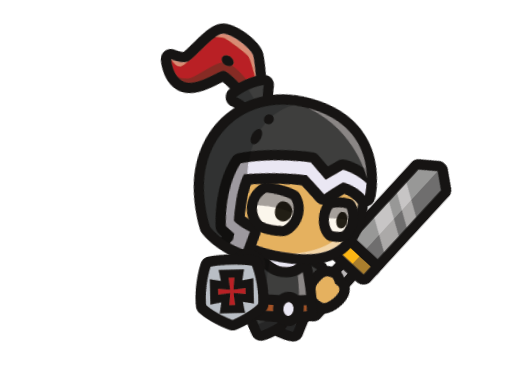
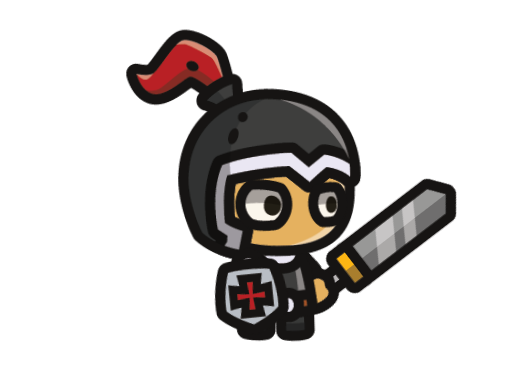
The character can be moved one step closer, and the problem button will be overridden as the scene refreshed

Changed region(s): [[0.2462, 0.0579, 0.8923, 0.8974]]

diff --git a/src/main/java/io/github/haname/view/Playpage.java b/src/main/java/io/github/haname/view/Playpage.java
@@ -12,6 +12,7 @@ import java.awt.event.ActionListener;
 import java.awt.event.KeyEvent;
 import java.awt.event.KeyListener;
 import java.awt.image.ImageObserver;
+import java.io.IOException;
 import java.util.ArrayList;
 import java.util.List;
 
@@ -25,8 +26,9 @@ public class Playpage extends JFrame implements KeyListener,Runnable {
     //使用一个布尔标志来控制暂停
     private Image offScreeenImage = null;
     private Role role = new Role();
+    private Thread thread=new Thread(this);
 
-    public Playpage() {
+    public Playpage() throws IOException {
         this.setSize(1280, 720);//设置窗口大小
         this.setLocationRelativeTo(null);//设置窗口居中
         this.setVisible(true);//设置窗口可见
@@ -75,6 +77,7 @@ public class Playpage extends JFrame implements KeyListener,Runnable {
         nowBg = allBg.get(0);
         //绘制图像
         repaint();
+        thread.start();
     }
 
     @Override
@@ -105,25 +108,25 @@ public class Playpage extends JFrame implements KeyListener,Runnable {
 
     @Override
     public void keyPressed(KeyEvent e) {
-        int keyCode = e.getKeyCode();
-        if (keyCode == KeyEvent.VK_D) {
+        int key = e.getKeyCode();
+        if (key == KeyEvent.VK_D) {
             role.rightMove();
         }
-        if (keyCode == KeyEvent.VK_A) {
+        if (key == KeyEvent.VK_A) {
             role.leftMove();
         }
-        if (keyCode == KeyEvent.VK_SPACE){
+        if (key == KeyEvent.VK_SPACE){
 
         }
     }
 
     @Override
     public void keyReleased(KeyEvent e) {
-        int keyCode = e.getKeyCode();
-        if (keyCode == KeyEvent.VK_D) {
+        int key = e.getKeyCode();
+        if (key == KeyEvent.VK_D) {
             role.rightStop();
         }
-        if (keyCode == KeyEvent.VK_A) {
+        if (key == KeyEvent.VK_A) {
             role.leftStop();
         }
     }
@@ -139,10 +142,6 @@ public class Playpage extends JFrame implements KeyListener,Runnable {
                 throw new RuntimeException(e);
             }
         }
-    }
-
-    private void print(int x) {
-        print(x);
     }
 }
 

diff --git a/src/main/java/io/github/haname/StaticValue.java b/src/main/java/io/github/haname/StaticValue.java
@@ -37,17 +37,17 @@ public class StaticValue {
     public static String path = System.getProperty("user.dir") + "/src/main/resources/images";
 
     //初始化
-    public static void init() {
+    public static void init() throws IOException {
         //加载背景图片
         try {
             bg = ImageIO.read(new File(path + "/Background.png"));
             bg2 = ImageIO.read(new File(path + "/Background2.png"));
 
-            stand_R = ImageIO.read(new File(path+"/Walking_016.png"));
+            stand_R = ImageIO.read(new File(path+"/Walking_001.png"));
 
             int width = stand_R.getWidth();
             int height = stand_R.getHeight();
-            BufferedImage stand_L = new BufferedImage(width, height, BufferedImage.TYPE_INT_ARGB);
+            stand_L = new BufferedImage(width, height, BufferedImage.TYPE_INT_ARGB);
 
             Graphics2D g2d = stand_L.createGraphics();
             g2d.drawImage(stand_R, 0, 0, width, height, width, 0, 0, height, null);
@@ -57,12 +57,22 @@ public class StaticValue {
 
             e.printStackTrace();
         }
-
+        for(int i=1;i<=18;i++) {
+            try {
+                if (i < 10) {
+                    run_R.add(ImageIO.read(new File(path + "/Walking_00" + i + ".png")));
+                } else {
+                    run_R.add(ImageIO.read(new File(path + "/Walking_0" + i + ".png")));
+                }
+            } catch (IOException e) {
+                throw new RuntimeException(e);
+            }
+        }
         //try {
         //    obstacle.add(ImageIO.read(new File(path + "")));
         //    obstacle.add(ImageIO.read(new File(path + "")));
         //} catch (IOException e) {
         //    throw new RuntimeException(e);
         //}
-    };
+    }
 }

diff --git a/src/main/java/obj/Role.java b/src/main/java/obj/Role.java
@@ -31,7 +31,7 @@ public class Role implements Runnable {
     }
 
     public void leftMove() {
-        xSpeed = -5;
+        xSpeed = -6;
         if (status.indexOf("jump") != 1) {
             status = "jump--left";
         } else {
@@ -40,7 +40,7 @@ public class Role implements Runnable {
     }
 
     public void rightMove() {
-        xSpeed = 5;
+        xSpeed = 6;
         if (status.indexOf("jump") != 1) {
             status = "jump--right";
         } else {
@@ -64,15 +64,6 @@ public class Role implements Runnable {
         } else {
             status = "stop--right";
         }
-    }
-
-
-    public int getX() {
-        return x;
-    }
-
-    public int getY() {
-        return y;
     }
 
     public String getStatus() {
@@ -119,7 +110,7 @@ public class Role implements Runnable {
     public void run() {
         while (true) {
             if (xSpeed < 0 || xSpeed > 0) {
-                x += xSpeed;
+                x+= xSpeed;
                 if (x < 0) {
                     x = 0;
                 }
@@ -145,6 +136,13 @@ public class Role implements Runnable {
                 e.printStackTrace();
             }
         }
+    }
+    public int getX() {
+        return x;
+    }
+
+    public int getY() {
+        return y;
     }
 
     public void setX(int x) {

diff --git a/src/main/java/io/github/haname/view/Mainmenu.java b/src/main/java/io/github/haname/view/Mainmenu.java
@@ -6,6 +6,7 @@ import java.awt.event.ActionEvent;
 import java.awt.event.ActionListener;
 import java.awt.event.KeyEvent;
 import java.awt.event.KeyListener;
+import java.io.IOException;
 
 public class Mainmenu extends JFrame implements KeyListener {
 
@@ -61,7 +62,12 @@ public class Mainmenu extends JFrame implements KeyListener {
 
         start.addActionListener(new ActionListener() {
             public void actionPerformed(ActionEvent e){
-                Playpage playpage = new Playpage();
+                Playpage playpage = null;
+                try {
+                    playpage = new Playpage();
+                } catch (IOException ex) {
+                    throw new RuntimeException(ex);
+                }
                 playpage.setVisible(true);
                 Mainmenu.this.dispose();
             }
